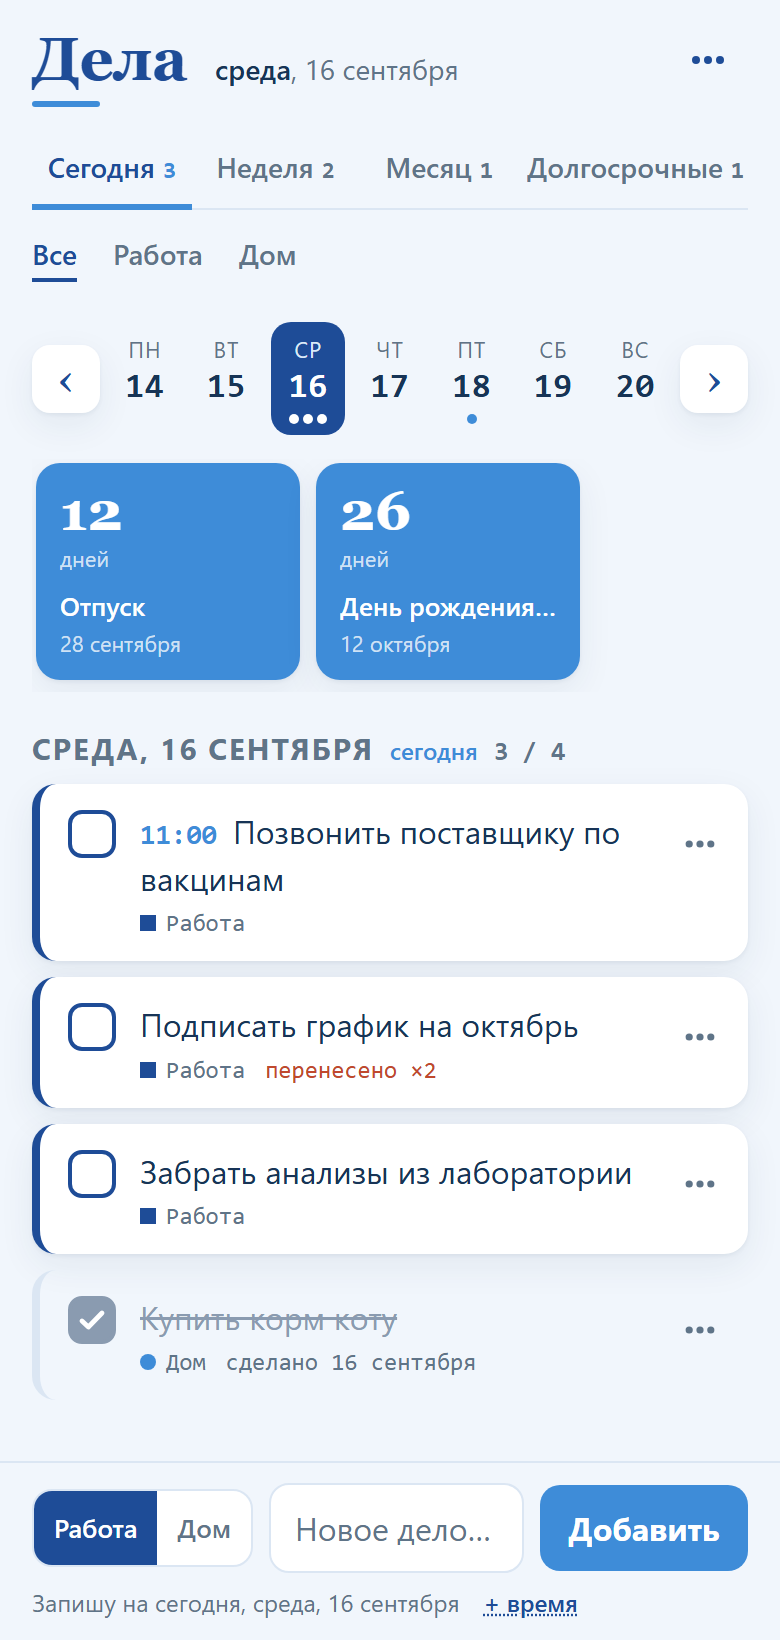
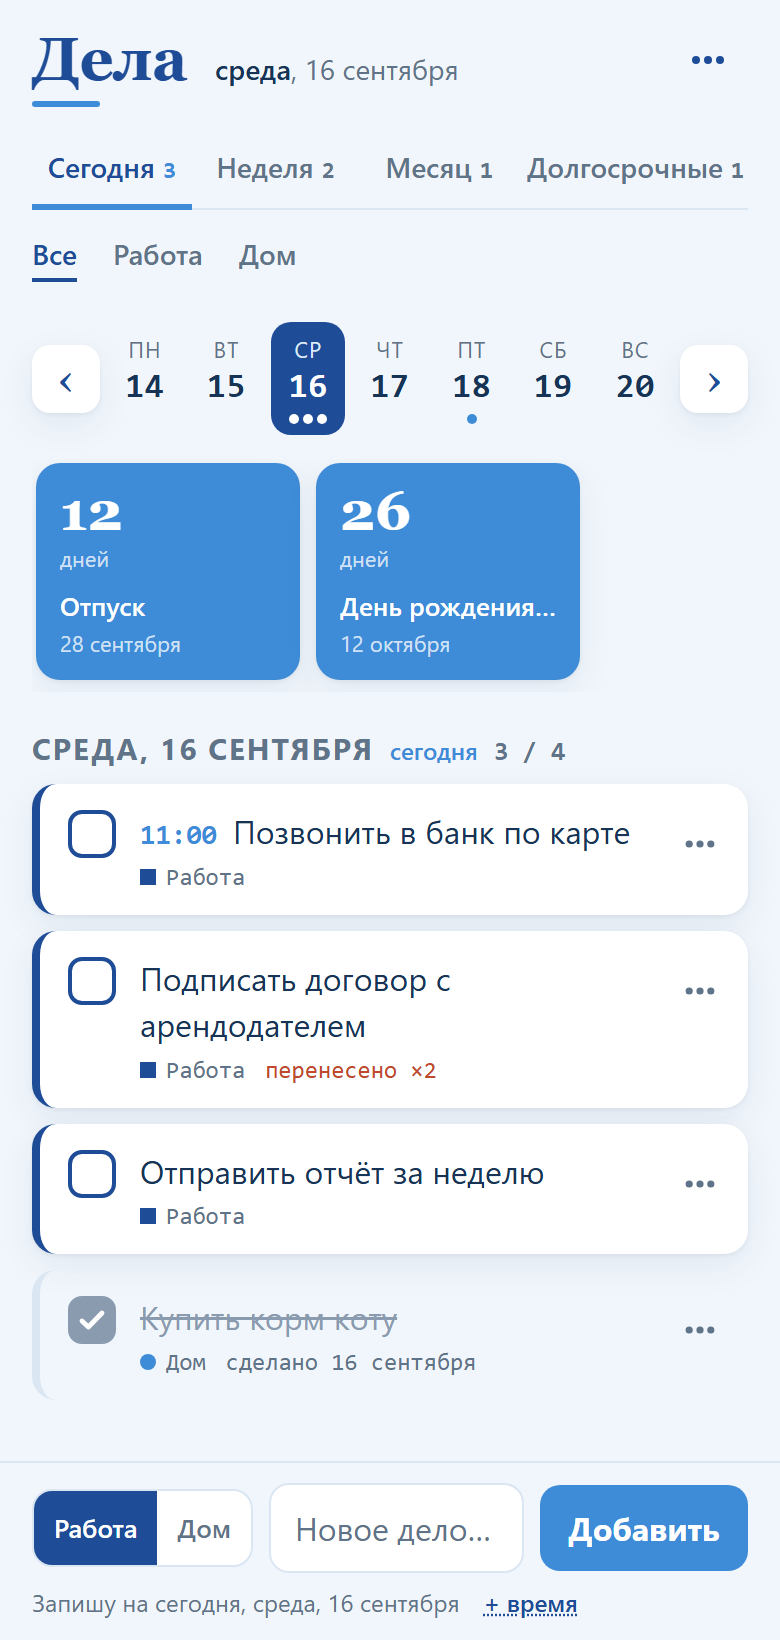
Демо: нейтральные примеры дел вместо профессиональных, обновлён скриншот

diff --git a/app.js b/app.js
@@ -61,14 +61,14 @@ function demoState() {
   const n = now(), t = Date.now();
   const mk = (text, area, bucket, key, extra = {}) => ({ id: uid(), text, area, bucket, key, time: '', done: false, doneAt: 0, carried: 0, createdAt: t, updatedAt: t, ...extra });
   return { tab: 'day', area: 'all', addArea: 'work', lastOpen: n.today, tasks: [
-    mk('Позвонить поставщику по вакцинам', 'work', 'day', n.today, { time: '11:00' }),
-    mk('Подписать график на октябрь', 'work', 'day', n.today, { carried: 2 }),
-    mk('Забрать анализы из лаборатории', 'work', 'day', n.today),
+    mk('Позвонить в банк по карте', 'work', 'day', n.today, { time: '11:00' }),
+    mk('Подписать договор с арендодателем', 'work', 'day', n.today, { carried: 2 }),
+    mk('Отправить отчёт за неделю', 'work', 'day', n.today),
     mk('Купить корм коту', 'home', 'day', n.today, { done: true, doneAt: t }),
     mk('Родительское собрание', 'home', 'day', addDays(n.today, 2), { time: '18:00' }),
     mk('Отпуск', 'home', 'day', addDays(n.today, 12), { countdown: true }),
     mk('День рождения мамы', 'home', 'day', addDays(n.today, 26), { countdown: true }),
-    mk('Проверить остатки на складе', 'work', 'week', n.week),
+    mk('Подготовить презентацию к четвергу', 'work', 'week', n.week),
     mk('Разобрать шкаф', 'home', 'week', n.week),
     mk('Отчёт в налоговую', 'work', 'month', n.month),
     mk('Выучить испанский до B1', 'home', 'long', ''),
